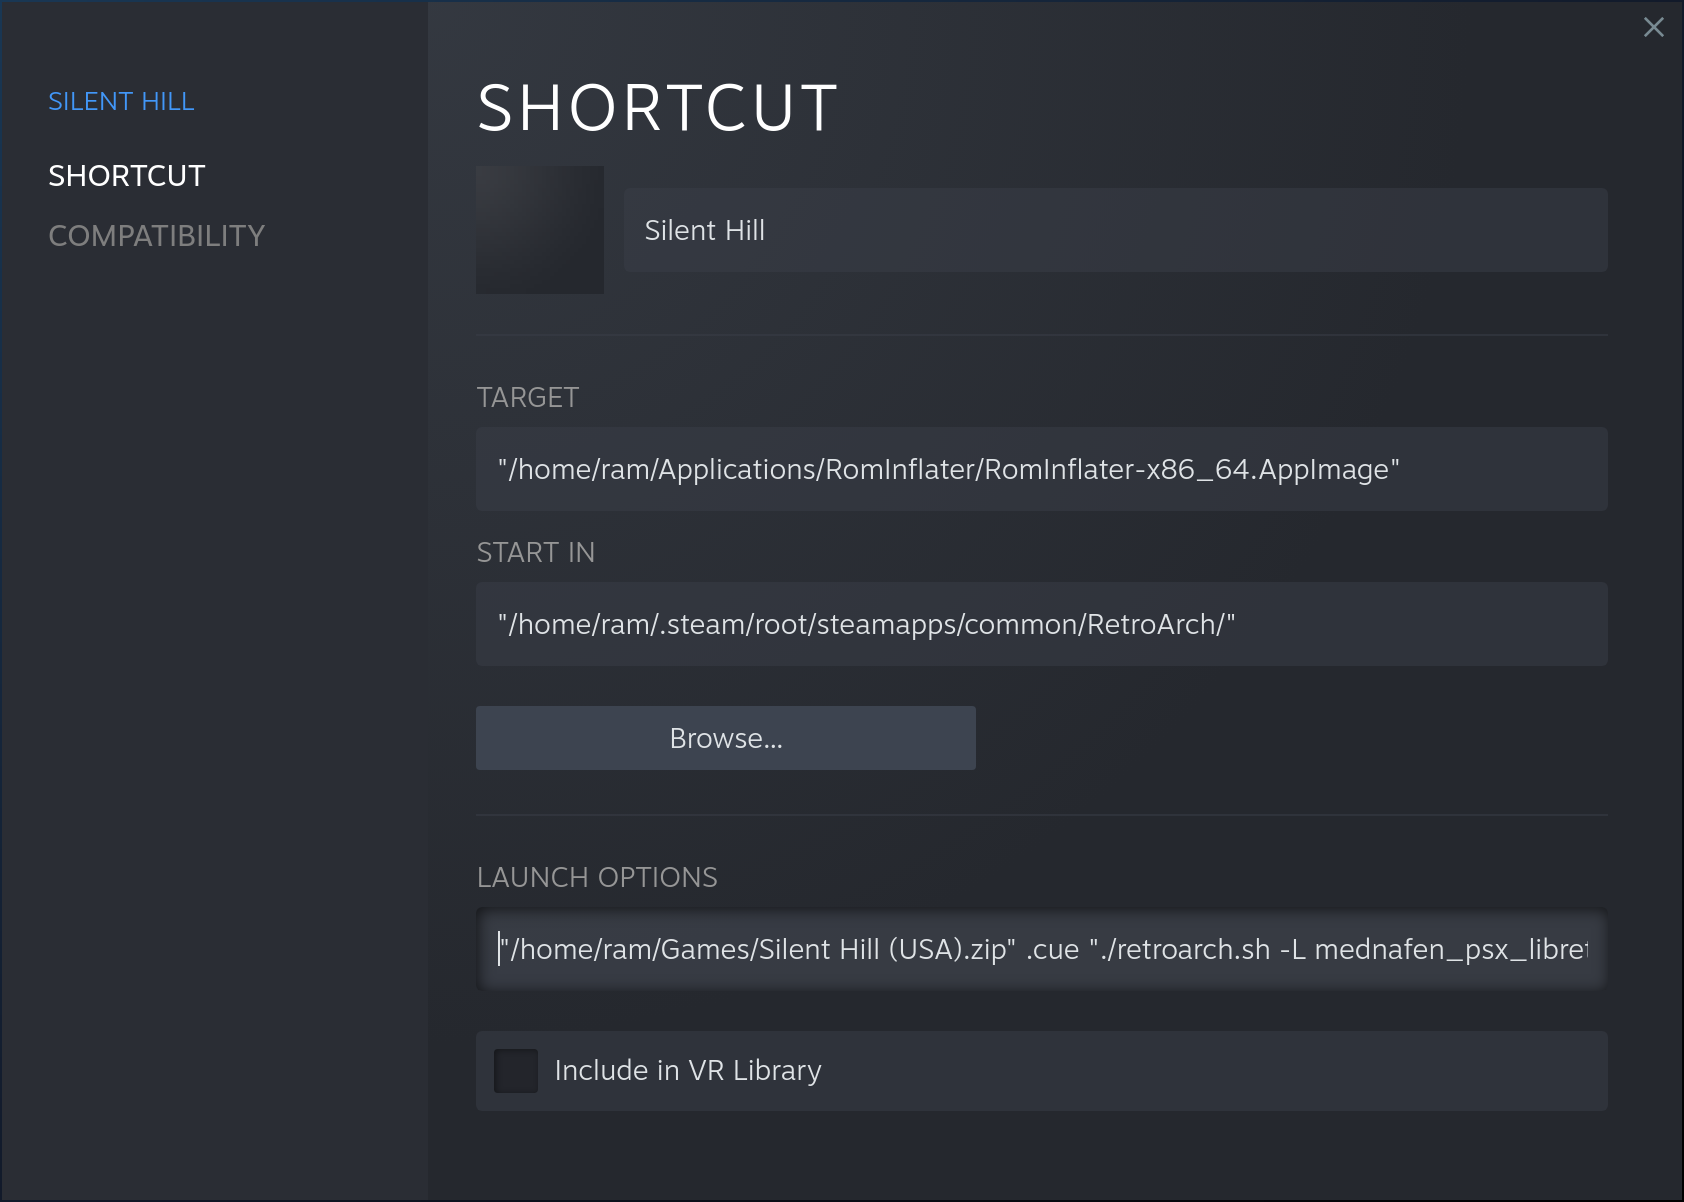
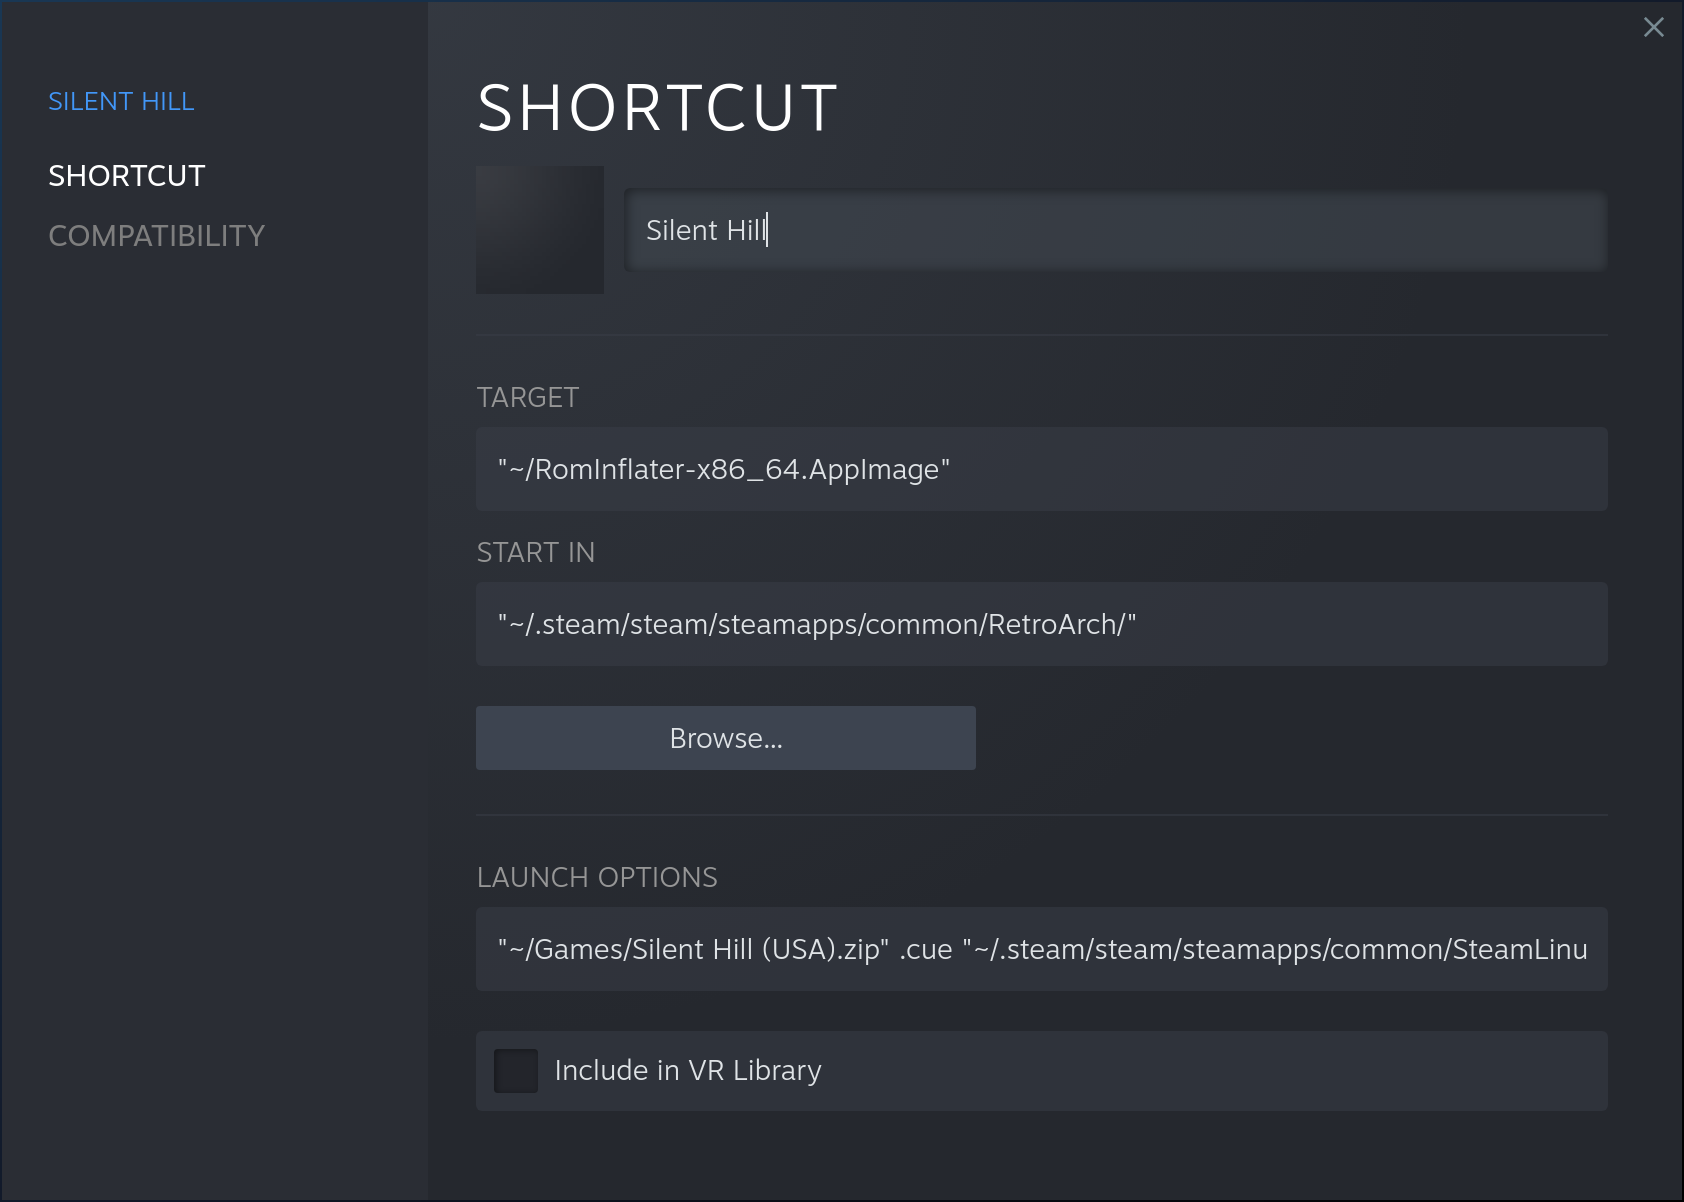
Change the README.md to update the Steam launcher.

diff --git a/README.md b/README.md
@@ -66,7 +66,7 @@ Edit the properties whith these values:
 * **START IN** The absolute path of the Steam Retroarch installation.
 * **LAUNCH OPTIONS** The parameters that RomInflater will use to inflate and launch the ROM. In this example:
 
-    "/home/ram/Games/Silent Hill (USA).zip" .cue "./retroarch.h -L mednafen_psx_libretro.so %INFLATEDFILE%"
+    "~/Games/Silent Hill (USA).zip" .cue "~/.steam/steam/steamapps/common/SteamLinuxRuntime_sniper/run -- ./retroarch.sh -L mednafen_psx_libretro.so %INFLATEDFILE%"
 
 ![RomInflater](https://www.dropbox.com/s/xy9dnmo4t6dt7tv/steam_properties_edit.png?raw=1)
 
